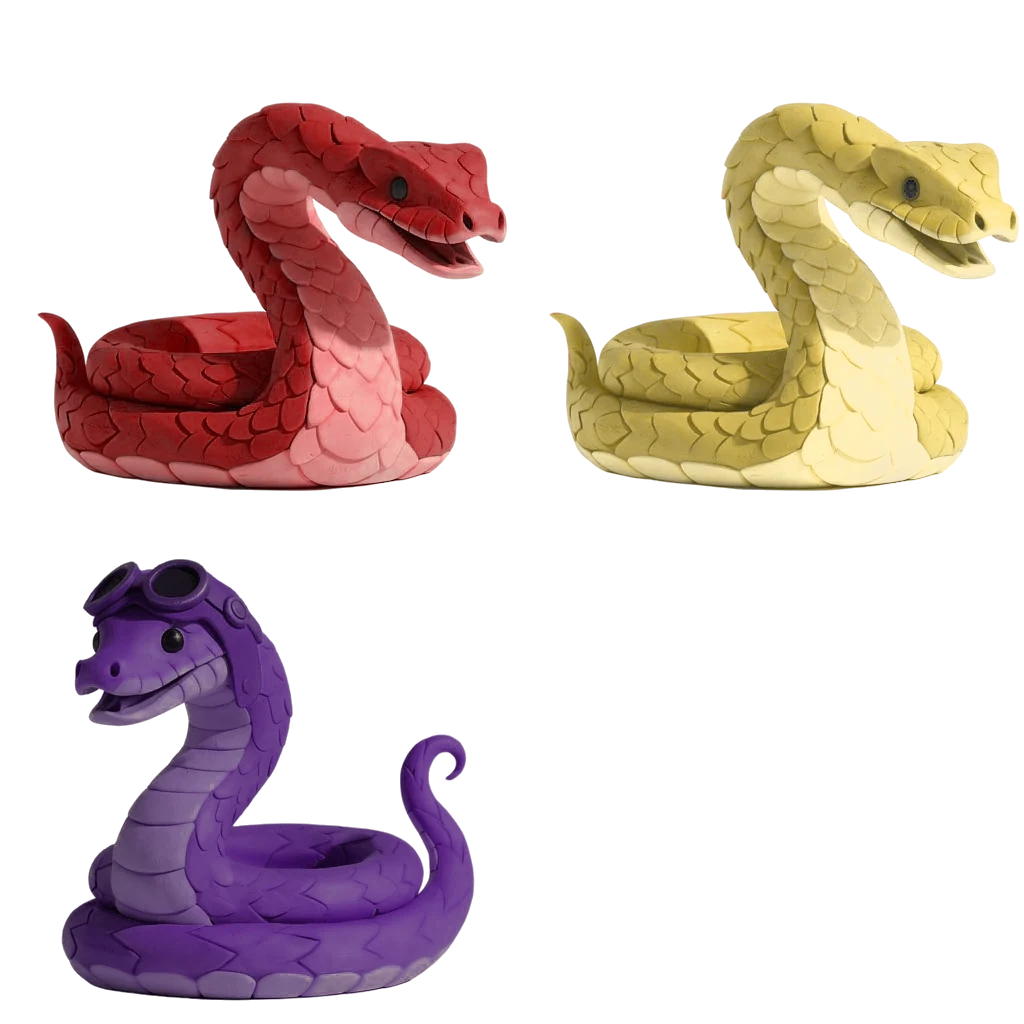
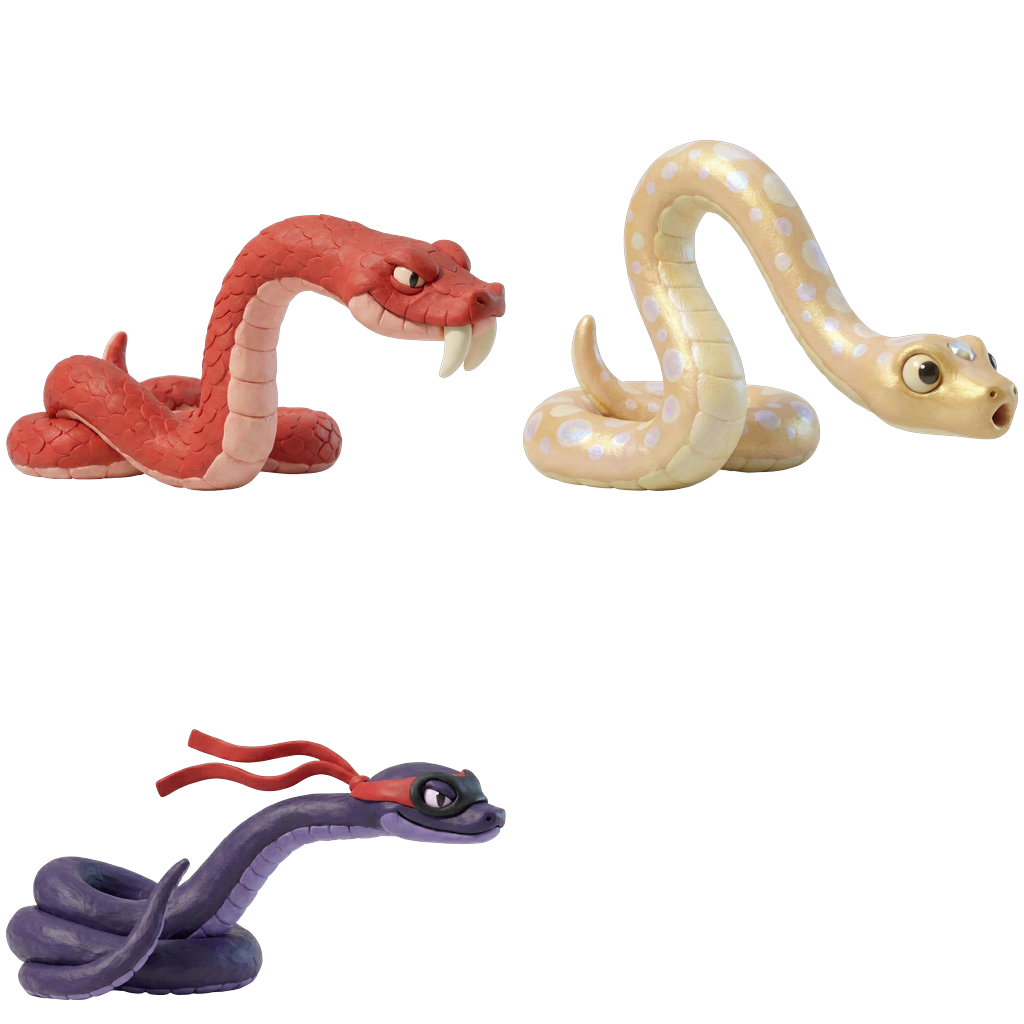
Dessins des trois nouveaux serpents du fils (grands crocs, serpent rare, ninja)
Budget libre accordé par le parent le 18 novembre. Planches de repos et
d'attaque en pâte à modeler (Magnific, Nano Banana Pro, 912 crédits),
assemblées par scripts/assemble-new-snakes.py, à la place des images
recolorées du 16 novembre. Les trois regardent vers la droite comme la
famille des serpents ; le ninja n'est plus retourné à part.

Claude-Session: https://claude.ai/code/session_0153huJungw2KXDp7mHDZLQs

diff --git a/src/render/actorLayout.ts b/src/render/actorLayout.ts
@@ -2,13 +2,8 @@ import type { Kind } from '../data.ts';
 import type { EnemyKind } from '../enemies.ts';
 /** Source sheets have different profiles; never infer them from the army alone. */
 export function spriteFlip(kind: Kind | 'snake', variant: EnemyKind, facing: number): boolean {
-  // The ninja snake borrows the picture of the runner for now, and its profile with it.
   const sourceFacing =
-    kind === 'snake' &&
-    variant !== 'runner' &&
-    variant !== 'spitter' &&
-    variant !== 'umbrella' &&
-    variant !== 'shadow'
+    kind === 'snake' && variant !== 'runner' && variant !== 'spitter' && variant !== 'umbrella'
       ? 1
       : -1;
   return (facing < 0 ? -1 : 1) !== sourceFacing;

diff --git a/tests/road-clarity.test.ts b/tests/road-clarity.test.ts
@@ -53,6 +53,11 @@ test('la variante au casque regarde dans le sens inverse de son image source', a
   assert.equal(spriteFlip('snake', 'normal', 1), false);
   assert.equal(spriteFlip('snake', 'normal', -1), true);
   assert.equal(spriteFlip('snake', 'spitter', 1), true);
+  // The three newcomers are drawn facing right, like the snake family (18 November 2026).
+  for (const variant of ['fang', 'rare', 'shadow'] as const) {
+    assert.equal(spriteFlip('snake', variant, 1), false, variant);
+    assert.equal(spriteFlip('snake', variant, -1), true, variant);
+  }
   assert.equal(spriteFlip('dragon', 'normal', -1), false);
   assert.equal(spriteFlip('dragon', 'normal', 1), true);
 });

diff --git a/src/art.ts b/src/art.ts
@@ -201,8 +201,7 @@ export const ENEMY_ART: Record<EnemyKind, ArtFrame> = {
   rattlesnake: frame('serpents-family', 0),
   royal: frame('serpents-family', 1),
   mamba: frame('serpents-family', 2),
-  // Provisional pictures (16 November 2026): cells of `enemies-organic`, recoloured by
-  // `scripts/recolor-new-snakes.py`, until the child's three newcomers each have a drawing.
+  // The child's three newcomers, drawn on 18 November 2026 (PROVENANCE-SERPENTS-NOUVEAUX).
   fang: frame('serpents-nouveaux', 0),
   rare: frame('serpents-nouveaux', 1),
   shadow: frame('serpents-nouveaux', 2),

diff --git a/scripts/assemble-new-snakes.py b/scripts/assemble-new-snakes.py
@@ -1,0 +1,67 @@
+"""Assemble serpents-nouveaux (idle) and serpents-nouveaux-attack from the Magnific cut-outs.
+
+Usage: python3 scripts/assemble-new-snakes.py <folder of cut-outs> <output folder>
+Inputs: idle-cut.png (the idle sheet, background removed), fang-cut.png, rare-cut.png and
+ninja-cut.png (one attacking figure each, background removed). See
+public/assets/illustrated/PROVENANCE-SERPENTS-NOUVEAUX-2026-11-18.md.
+
+Idle: the three cells of the cut sheet, each moved down so that its bottom matches the
+provisional sheet (in-game anchor unchanged). Attack: each single-figure cut-out is made as large
+as its 512 cell allows without being taller than the figure at rest, then placed with the coil
+left edge and the bottom of the figure at rest, inside its cell.
+"""
+import sys
+from PIL import Image
+import numpy as np
+
+work, out = sys.argv[1], sys.argv[2]
+TH, CELL, MARGIN = 60, 512, 6
+BOTTOMS = [491, 491, 488]  # bottoms of the provisional cells: fang, rare, ninja
+ORIGINS = [(0, 0), (512, 0), (0, 512)]
+ATTACKS = ['fang-cut', 'rare-cut', 'ninja-cut']
+
+def bbox(a):
+    ys, xs = np.where(a > TH)
+    return xs.min(), ys.min(), xs.max() + 1, ys.max() + 1
+
+def coil(alpha):
+    """Left edge and width of the lowest 30 % of the figure."""
+    x0, y0, x1, y1 = bbox(alpha)
+    band = alpha[y1 - int((y1 - y0) * 0.3):y1]
+    xs = np.where((band > TH).any(axis=0))[0]
+    return xs.min(), xs.max() + 1 - xs.min()
+
+idle = Image.open(f'{work}/idle-cut.png').convert('RGBA')
+rest = Image.new('RGBA', (1024, 1024), (0, 0, 0, 0))
+attack = Image.new('RGBA', (1024, 1024), (0, 0, 0, 0))
+for index, ((ox, oy), bottom, name) in enumerate(zip(ORIGINS, BOTTOMS, ATTACKS)):
+    cell = idle.crop((ox, oy, ox + CELL, oy + CELL))
+    a = np.array(cell)[:, :, 3]
+    x0, y0, x1, y1 = bbox(a)
+    dy = bottom - y1
+    placed = Image.new('RGBA', (CELL, CELL), (0, 0, 0, 0))
+    placed.paste(cell, (0, dy), cell)
+    rest.paste(placed, (ox, oy))
+    left, width = coil(np.array(placed)[:, :, 3])
+
+    figure = Image.open(f'{work}/{name}.png').convert('RGBA')
+    fa = np.array(figure)[:, :, 3]
+    fx0, fy0, fx1, fy1 = bbox(fa)
+    figure = figure.crop((fx0, fy0, fx1, fy1))
+    fleft, fwidth = coil(np.array(figure)[:, :, 3])
+    w, h = figure.size
+    # As large as the cell allows, never taller than the figure at rest: the lunge is long,
+    # so the width of the cell is what limits most figures.
+    scale = min((CELL - 2 * MARGIN) / w, (y1 + dy - (y0 + dy)) / h, (bottom - MARGIN) / h)
+    figure = figure.resize((round(w * scale), round(h * scale)), Image.LANCZOS)
+    w, h = figure.size
+    x = left - round(fleft * scale)
+    x = max(MARGIN, min(x, CELL - MARGIN - w))
+    y = bottom - h
+    shot = Image.new('RGBA', (CELL, CELL), (0, 0, 0, 0))
+    shot.paste(figure, (x, y), figure)
+    attack.paste(shot, (ox, oy))
+    print(f'cell {index}: idle dy={dy:+d} bottom={bottom}; attack scale={scale:.3f} at x={x} y={y} size={w}x{h}')
+
+rest.save(f'{out}/serpents-nouveaux.webp', lossless=True, quality=100, method=6)
+attack.save(f'{out}/serpents-nouveaux-attack.webp', lossless=True, quality=100, method=6)

diff --git a/public/assets/illustrated/PROVENANCE-SERPENTS-NOUVEAUX-2026-11-18.md b/public/assets/illustrated/PROVENANCE-SERPENTS-NOUVEAUX-2026-11-18.md
@@ -1,0 +1,55 @@
+# Trois nouveaux serpents — dessins du 18 novembre 2026
+
+Fichiers : `src/assets/illustrated/serpents-nouveaux.webp` (repos) et
+`serpents-nouveaux-attack.webp` (attaque), 1024×1024 px, quatre cases de 512 px, la
+quatrième vide, WebP sans perte, fond transparent. Ils remplacent les images provisoires du
+16 novembre (`PROVENANCE-SERPENTS-PROVISOIRES-2026-11.md`).
+
+Décision du parent le 18 novembre 2026 : budget libre pour dessiner les trois serpents du
+fils. Noms du fils, gardés tels quels : « Grands crocs », « Serpent rare », « Serpent ninja ».
+
+| Case | Serpent       | Dessin                                                                     |
+| ---: | ------------- | -------------------------------------------------------------------------- |
+|    0 | Grands crocs  | serpent rouge au ventre rose crème, deux gros crocs arrondis, rien d'autre |
+|    1 | Serpent rare  | petit serpent fin or pâle et ivoire, taches nacrées, petite pierre au front |
+|    2 | Serpent ninja | serpent violet foncé, masque rouge sur les yeux, bandeau rouge à rubans    |
+
+Les trois regardent vers la droite, comme la famille des serpents ; le jeu les retourne
+quand ils marchent vers la gauche (`render/actorLayout.ts`).
+
+## Comment
+
+Compte Magnific Premium du créateur, projet Personal. Modèle Nano Banana Pro
+(`images_generate`, `mode: imagen-nano-banana-2`, 1:1), 75 crédits l'image ; détourage
+`images_remove_background`, 3 crédits. Références : la planche `serpents-family` (style
+pâte à modeler) et la planche provisoire (place et couleurs), lues depuis le dépôt public.
+
+- Repos : deux variantes, retenue [Cqzf476EEy](https://www.magnific.com/app/creation/Cqzf476EEy)
+  (masque rouge plus lisible que le masque noir de nVLzFaZYQD). Détourage tC3IPvbmZJ.
+- Attaque, planche entière : deux essais de deux variantes (cpgW5t70eP, Lwoj06yswO,
+  SymgpJBUb8, p8ODLotehw) ÉCARTÉS : le ninja ne bougeait pas, et dans le meilleur la tête des
+  grands crocs sortait de sa case.
+- Attaque, un serpent par image (« la case agrandie ») : retenues
+  [jUBxTufLD0](https://www.magnific.com/app/creation/jUBxTufLD0) (grands crocs, détourage
+  s78LpUol8e), [6AqNaOeiJO](https://www.magnific.com/app/creation/6AqNaOeiJO) (serpent rare,
+  détourage w4vUoPr7EI), [aFAv9VefSh](https://www.magnific.com/app/creation/aFAv9VefSh)
+  (ninja, détourage O6CJtiQynm). Écartées : s78LMFnl8e, DoJML3Fpcl, iGb6fyJ3uK (ce dernier
+  ajoutait deux autres serpents).
+- Assemblage : `scripts/assemble-new-snakes.py`. Repos : chaque figurine descend de 6 à 8 px
+  pour poser sur la ligne de base de la planche provisoire. Attaque : chaque figurine est
+  agrandie autant que sa case le permet sans dépasser la hauteur du repos, posée sur la même
+  ligne de base.
+
+**Dépense : 912 crédits** (12 images × 75 = 900 ; 4 détourages × 3 = 12). Solde vérifié :
+10 015 → 9 103.
+
+Consignes données au générateur : jouet pour jeunes enfants, jamais effrayant ; ni sang, ni
+langue ; aucune dent sauf les deux crocs arrondis des grands crocs (vérifié en grand).
+
+## Réserves
+
+- En attaque, les grands crocs et le ninja sont un peu plus petits qu'au repos : leur élan
+  est long et la case limite leur largeur.
+- En attaque, le serpent rare paraît plus épais qu'au repos.
+- Les droits d'utilisation suivent les conditions du compte Magnific ; aucune exclusivité ou
+  protection juridique n'est garantie.

diff --git a/docs/ARCHITECTURE.md b/docs/ARCHITECTURE.md
@@ -519,9 +519,11 @@ de la révision 3 et ajoute ces trois espèces aux vagues de la grande aventure.
   (`THREAT_DETAILS`), un conseil pour deux d'entre eux, et « Esquive ! » au-dessus du ninja
   (`Presentation` voit `dodges` baisser). Les annonces de vague (`waves.ts`) ne les nomment
   pas encore.
-- **Images provisoires.** Planche `serpents-nouveaux` : trois cases de `enemies-organic`
-  recolorées par `scripts/recolor-new-snakes.py`, sans générateur ni dépense
-  (`public/assets/illustrated/PROVENANCE-SERPENTS-PROVISOIRES-2026-11.md`).
+- **Dessins.** Planche `serpents-nouveaux` et sa planche d'attaque : les trois serpents du
+  fils dessinés le 18 novembre 2026 (Magnific, assemblées par `scripts/assemble-new-snakes.py`,
+  `public/assets/illustrated/PROVENANCE-SERPENTS-NOUVEAUX-2026-11-18.md`). Ils regardent vers
+  la droite. Les images provisoires du 16 novembre restent décrites dans
+  `PROVENANCE-SERPENTS-PROVISOIRES-2026-11.md`.
 
 `ui/recruitmentReminder.ts` observe les achats réussis de Session, l’or dépensable
 et les frames actives réelles, indépendamment de ×1/×2. Le rappel reste sur la
